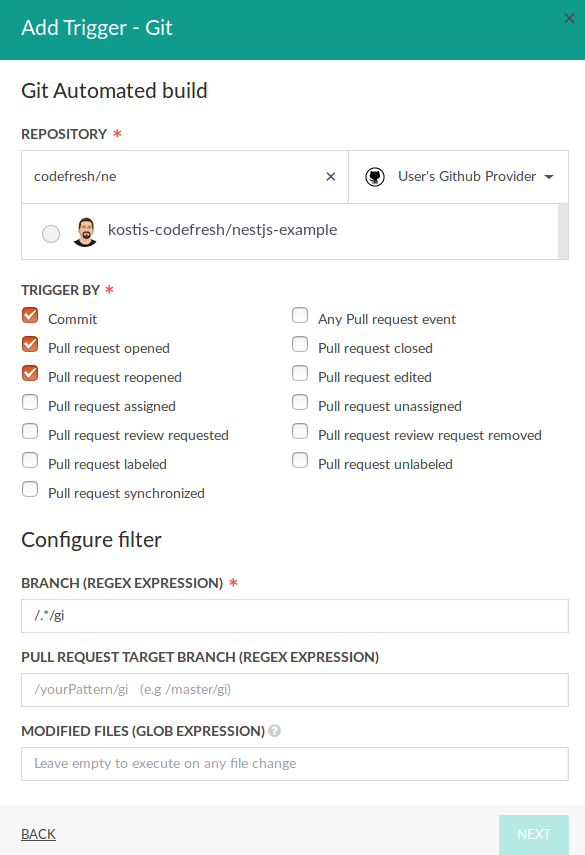
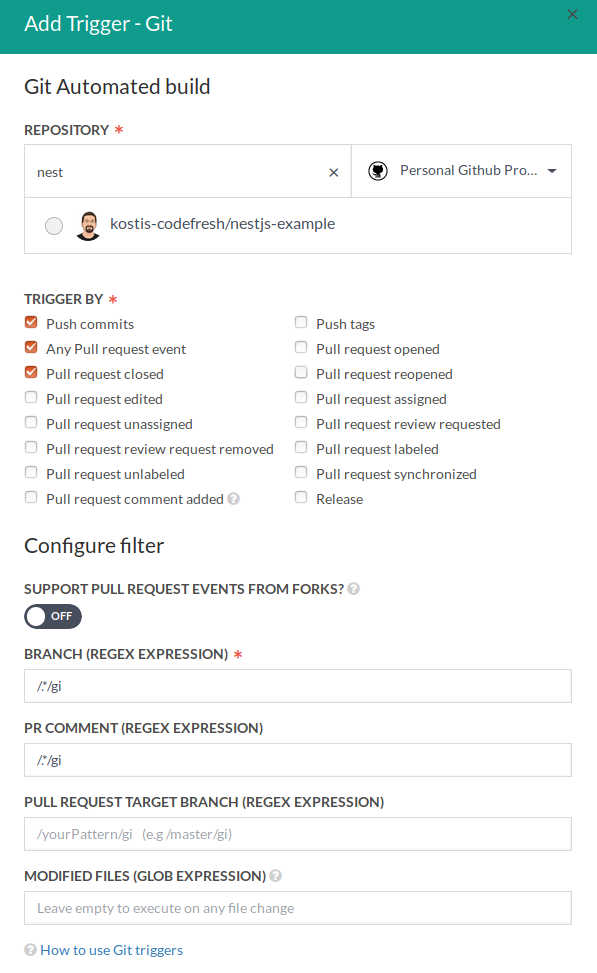
Run builds from external forks

diff --git a/_docs/configure-ci-cd-pipeline/triggers/git-triggers.md b/_docs/configure-ci-cd-pipeline/triggers/git-triggers.md
@@ -38,7 +38,9 @@ You can select the following information:
 * *Repository* - You can select any repository even something different than the one that is used for the code checkout
 * *Commit checkbox* - If enabled will trigger this pipeline for any commit
 * *PR checkboxes* - Various checkboxes for filtering the Pull request event 
+* *Support PR events from forks* - Useful for opensource projects
 * *Branch field* - This is a regular expression and will only trigger for branches that match this naming pattern
+* *PR comment field* - Useful for open source projects
 * *Pull Request target* branch - This is a regular expression and will trigger only when a Pull request is created against any branch that matches it
 * *Modified files* - This allows you to constrain the build and trigger it only if the modified files from the commit match this [glob expression](https://en.wikipedia.org/wiki/Glob_(programming))
 
@@ -79,6 +81,30 @@ Notice also that you can use Negative Lookahead in your Branch (Regex Expression
 
 This will make all push-events (including tags) that do follow the `tag...` pattern to be excluded.
 Therefore all tags like `tag1`, `tag-X` **won't** trigger the pipeline.
+
+### Support for building pull requests from forks
+
+By default the git trigger will only work for events coming from your personal repository. You can also use triggers from events that are coming from forks. This is a very useful feature for open source projects, as it allows you to run your own unit tests and other checks against a new feature *before* actually merging it in your repo.
+
+To enable this behavior
+* Toggle the *support pull request events from forks* switch
+* In the *pr comment* field enter a custom string (accepts regex)
+
+Then once a contributor creates a fork of your repository and submits a pull request, you can review the code and then add a comment on your own that matches the PR comment expression.
+
+{% include image.html
+lightbox="true"
+file="/images/pipeline/triggers/pr-from-fork.png"
+url="/images/pipeline/triggers/pr-from-fork.png"
+alt="Triggering a public build from a comment"
+caption="Triggering a public build from a comment"
+max-width="50%"
+%}
+
+Once that is done, Codefresh will launch your pipeline against the Pull Request. If you manage an open source project with Codefresh, remember to enable [public builds]({{site.baseurl}}/docs/configure-ci-cd-pipeline/build-status/#public-build-logs) as well.
+
+
+
 
 ### Monorepo support (Modified files)
 

diff --git a/_docs/configure-ci-cd-pipeline/monitoring-pipelines.md b/_docs/configure-ci-cd-pipeline/monitoring-pipelines.md
@@ -147,11 +147,7 @@ caption="Pull Request Status (click image to enlarge)"
 max-width="50%" 
 %}
 
-
-
-
-
-If you have setup a [GIT trigger]({{ site.baseurl }}/docs/configure-ci-cd-pipeline/triggers/git-triggers/) in Codefresh then by default this happens automatically without any other configuration
+If you have setup a [GIT trigger]({{site.baseurl}}/docs/configure-ci-cd-pipeline/triggers/git-triggers/) in Codefresh then by default this happens automatically without any other configuration
 for all automated commits (that are coming from webhooks).
 
 If you start a build manually then by default the git status will **not** be updated (i.e. the result of the pipeline
@@ -173,6 +169,8 @@ This way the pipeline status *will* change the build status even with manual bui
 
 The same behavior is also available to the [Codefresh CLI](https://codefresh-io.github.io/cli/). In that case use the parameter `--enable-notifications`
 to specify if manually triggering a build will also change the GIT status.
+
+For open source projects you also have the ability to [trigger builds from external forks]({{site.baseurl}}/docs/configure-ci-cd-pipeline/triggers/git-triggers/#support-for-building-pull-requests-from-forks).
 
 ### Viewing Pipeline status from text/html files
 

diff --git a/_docs/configure-ci-cd-pipeline/build-status.md b/_docs/configure-ci-cd-pipeline/build-status.md
@@ -139,3 +139,5 @@ max-width="60%"
 %}
 
 Your visitors can also click on each individual pipeline step and see the logs for that step only.
+
+If you are using Codefresh to manage a public project, you should also use the capability to [trigger builds from external forks]({{site.baseurl}}/docs/configure-ci-cd-pipeline/triggers/git-triggers/#support-for-building-pull-requests-from-forks).

diff --git a/_docs/whats-new/whats-new.md b/_docs/whats-new/whats-new.md
@@ -7,8 +7,9 @@ redirect_from:
 toc: true
 ---
 
-### November 2018
+### December 2018
 
+- Run builds from external forks - [documentation]({{site.baseurl}}/docs/configure-ci-cd-pipeline/triggers/git-triggers/#support-for-building-pull-requests-from-forks)
 - Added OneLogin SSO support - [documentation]({{site.baseurl}}/docs/enterprise/single-sign-on/sso-onelogin/)
 
 
